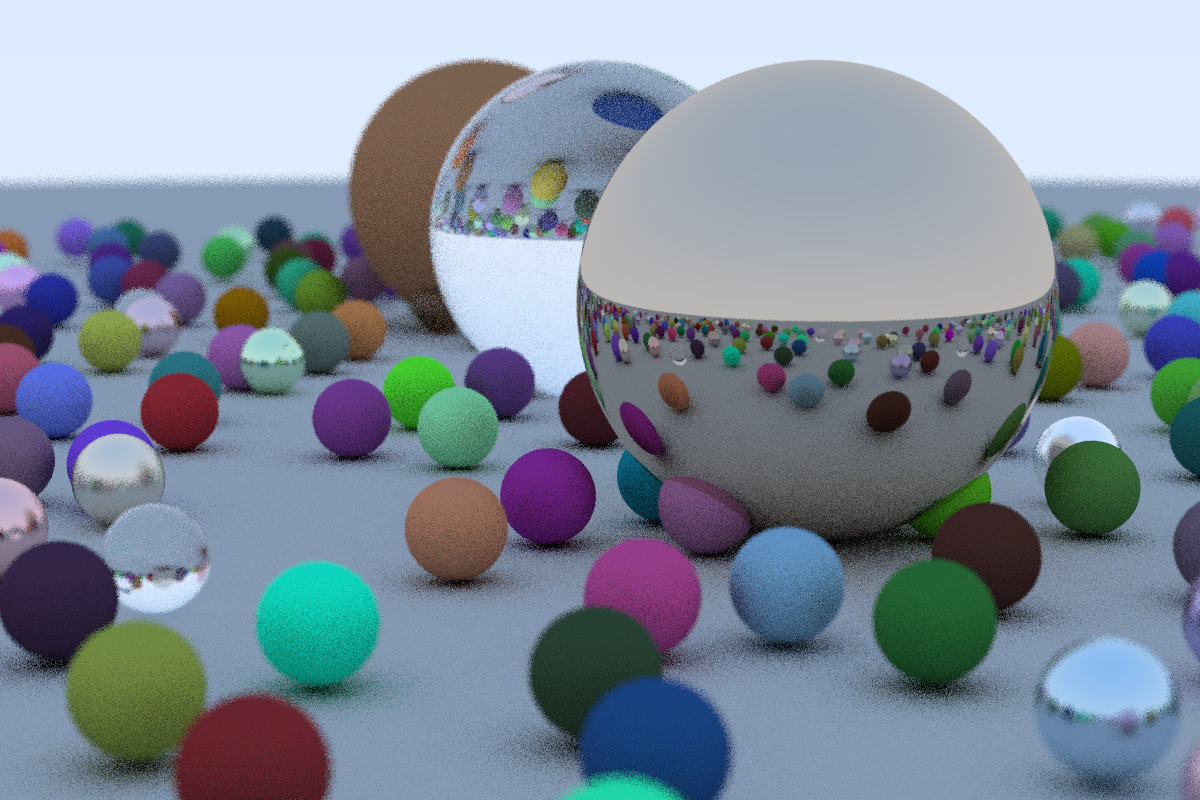
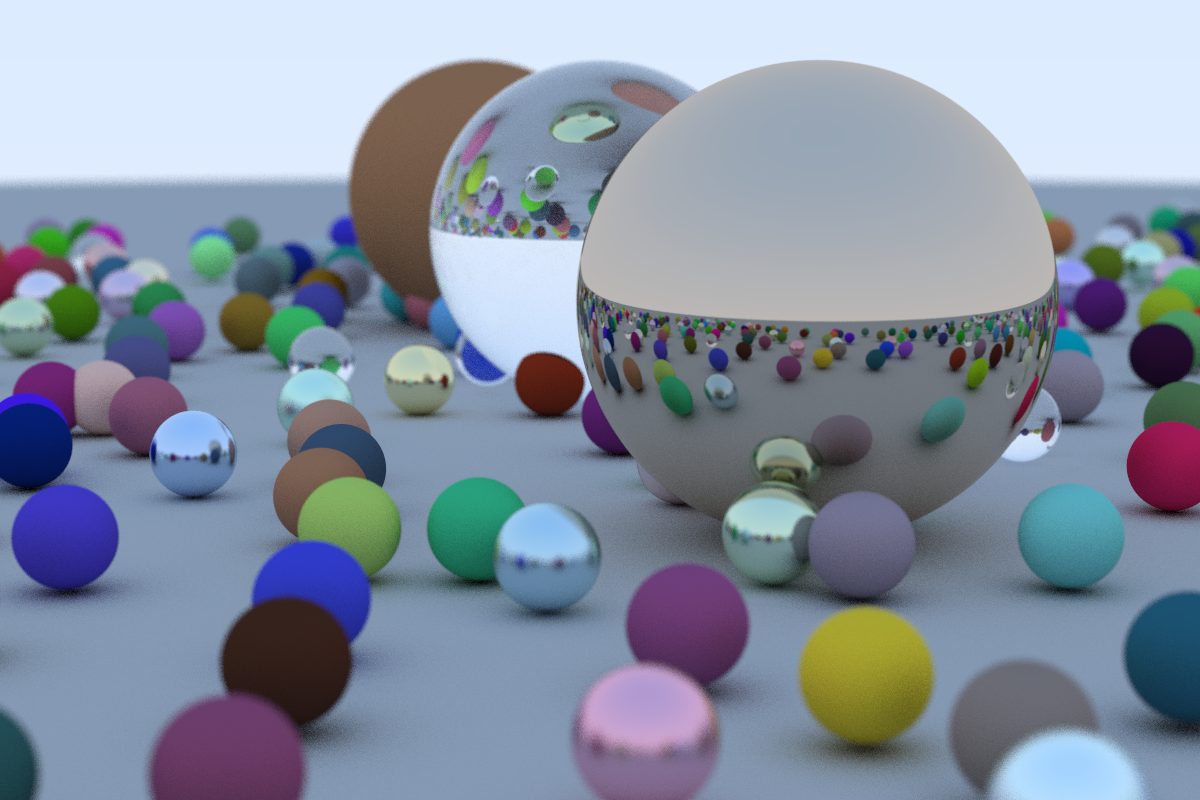
100 sample sample.png

diff --git a/src/main.rs b/src/main.rs
@@ -170,7 +170,7 @@ fn main() -> std::io::Result<()> {
         cols: 1200,
         colors: vec![],
     };
-    let num_samples = 10;
+    let num_samples = 100;
 
     let look_from = Vec3::new(13.0, 2.0, 3.0);
     let look_at = Vec3::new(0.0, 0.0, 0.0);
@@ -192,6 +192,7 @@ fn main() -> std::io::Result<()> {
     let world = random_scene();
 
     for j in 0..out.rows {
+        println!("row: {:?}", j);
         for i in 0..out.cols {
             let mut sampled_color_sum = Vec3::new(0.0, 0.0, 0.0);
 
